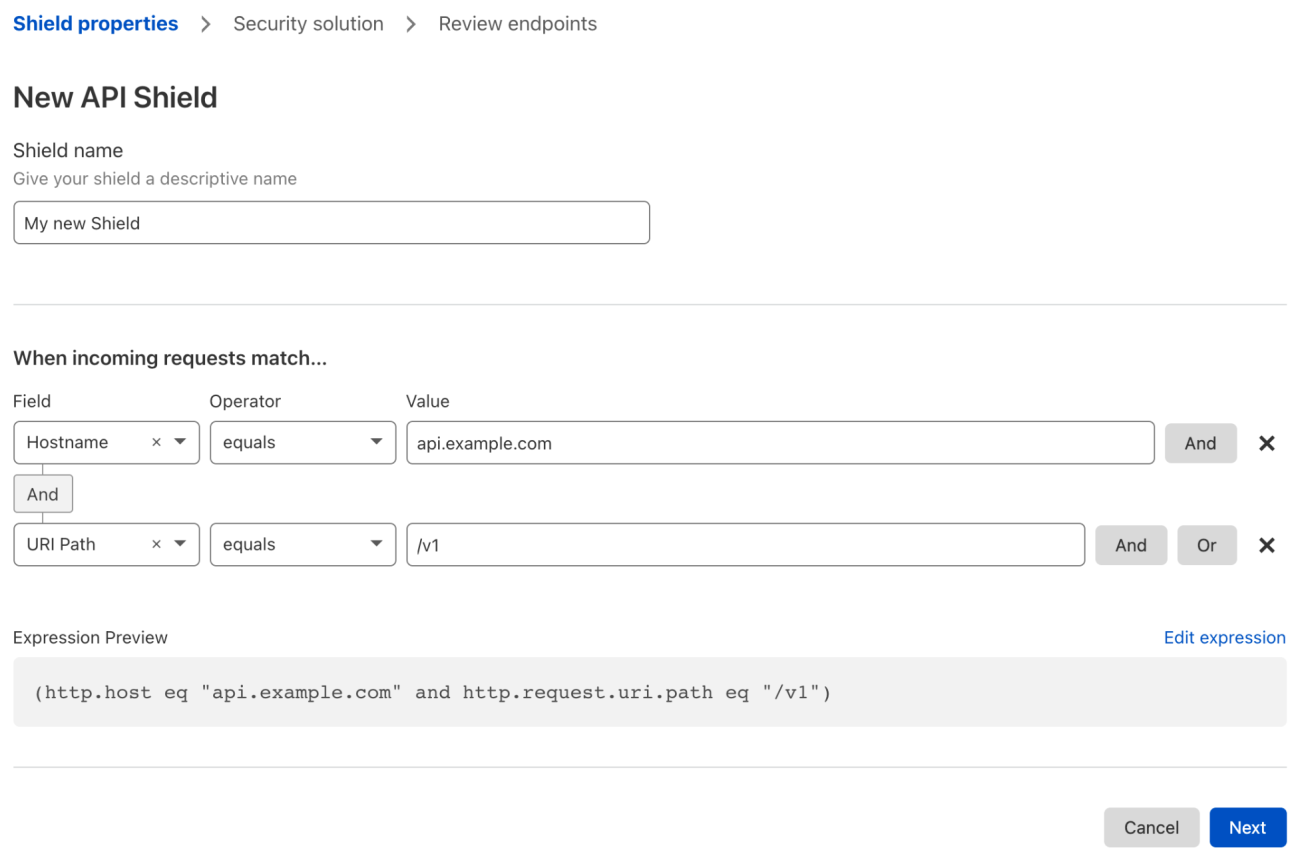
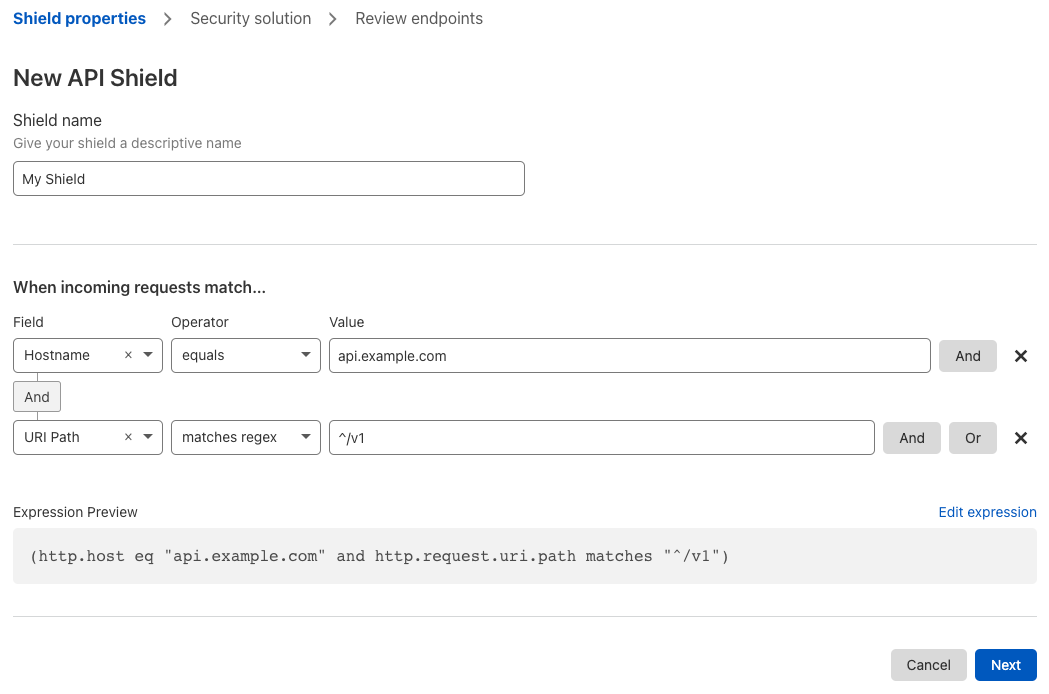
Update Schema Validation rule to use regular expression (#1005)

diff --git a/products/firewall/src/content/cf-dashboard/configure-schema-validation.md b/products/firewall/src/content/cf-dashboard/configure-schema-validation.md
@@ -42,11 +42,13 @@ To configure Schema Validation in the Cloudflare dashboard, follow these steps:
 
 1. Configure the expression for the API Shield using the available request fields.
 
-    For example, if your API is available at `http://api.example.com/v1`, the expression must include a check for the _hostname_ field (which must be equal to `api.example.com`) and a check for the _URI path_ field (which must be equal to `/v1`).
+    For example, if your API is available at `http://api.example.com/v1`, the expression must include a check for the _Hostname_ field (which must be equal to `api.example.com`) and a check for the _URI Path_ field using a regular expression (which must match the regex `^/v1`).
 
     <Aside type='warning' header='Important'>
 
-    To validate the hostname, you must include the _hostname_ field explicitly in the rule, even if the hostname value is in the schema file. Any hostname value present in the schema file will be ignored.
+    To validate the hostname, you must include the _Hostname_ field explicitly in the rule, even if the hostname value is in the schema file. Any hostname value present in the schema file will be ignored.
+
+    Regular expression support is a paid add-on in the Enterprise plan.
 
     </Aside>
 

diff --git a/products/firewall/src/content/cf-dashboard/rules-lists/manage-items.md b/products/firewall/src/content/cf-dashboard/rules-lists/manage-items.md
@@ -14,7 +14,7 @@ To view the items in a Firewall Rules list, follow these steps:
 
 The list of items displays sorted by IP address, ascending:
 
-![View items in  a list](../../images/lists-view-items-in-list.png)
+![View items in a list](../../images/lists-view-items-in-list.png)
 
 <Aside type='note' header='Note'>
 
